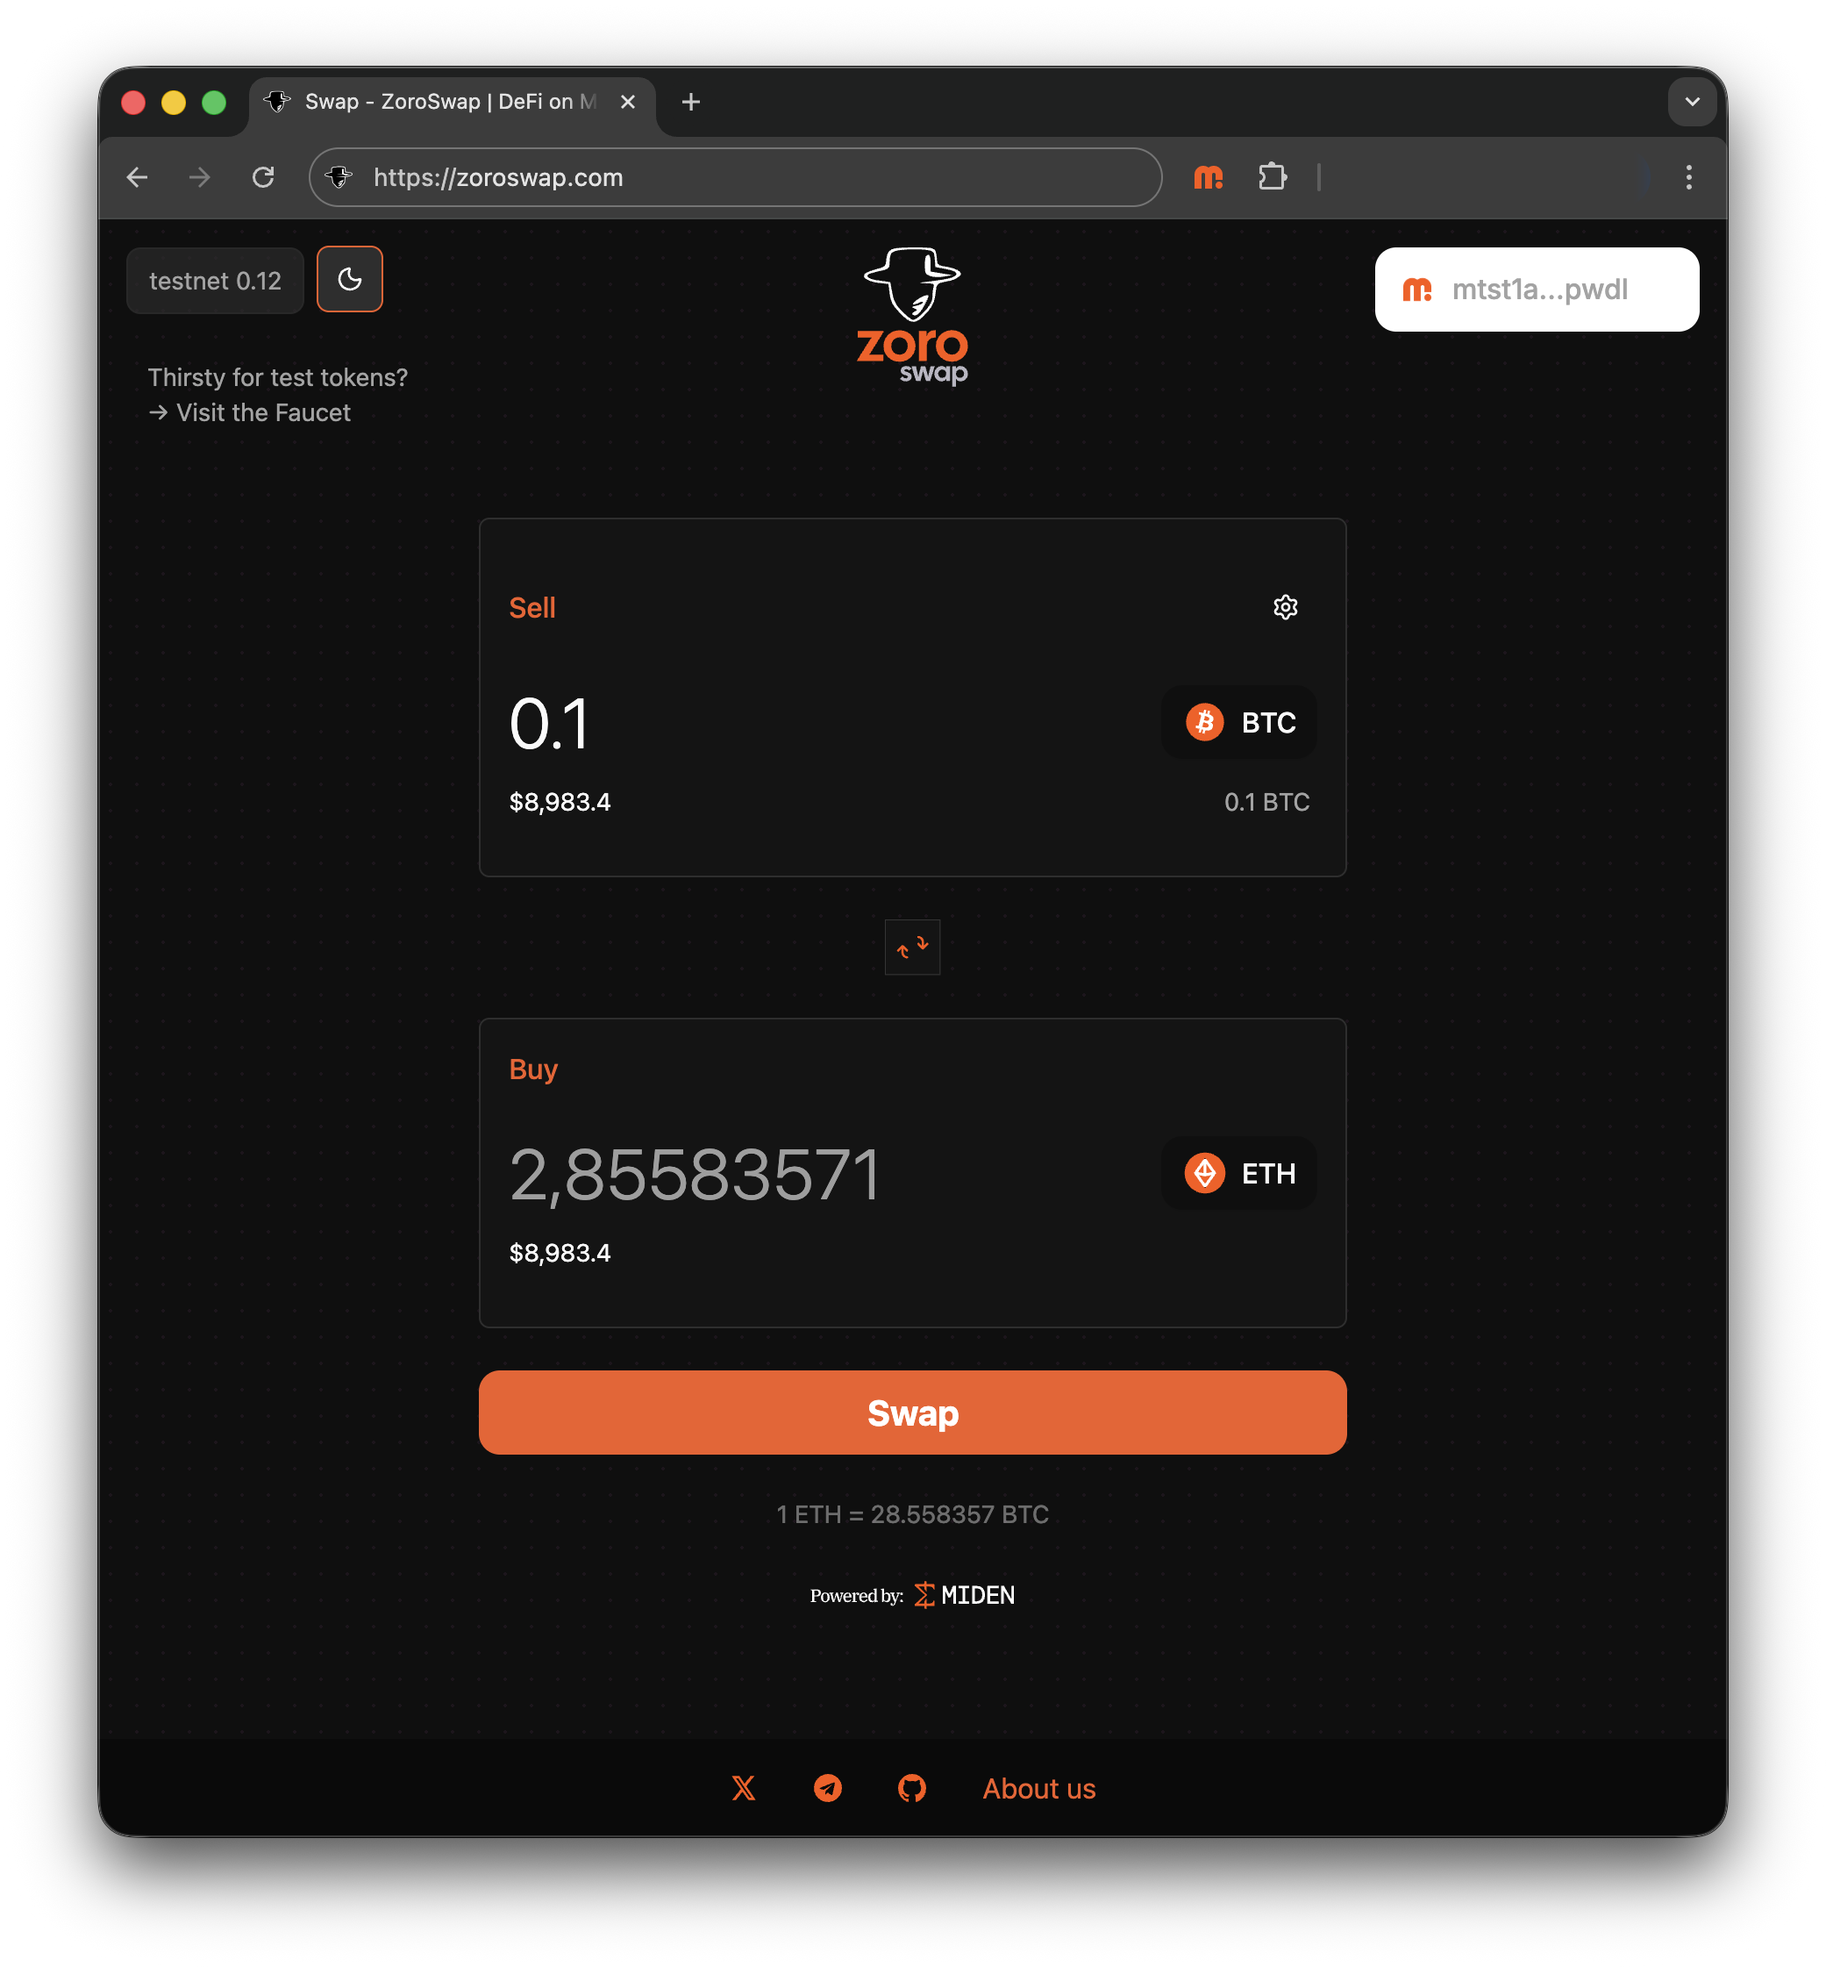
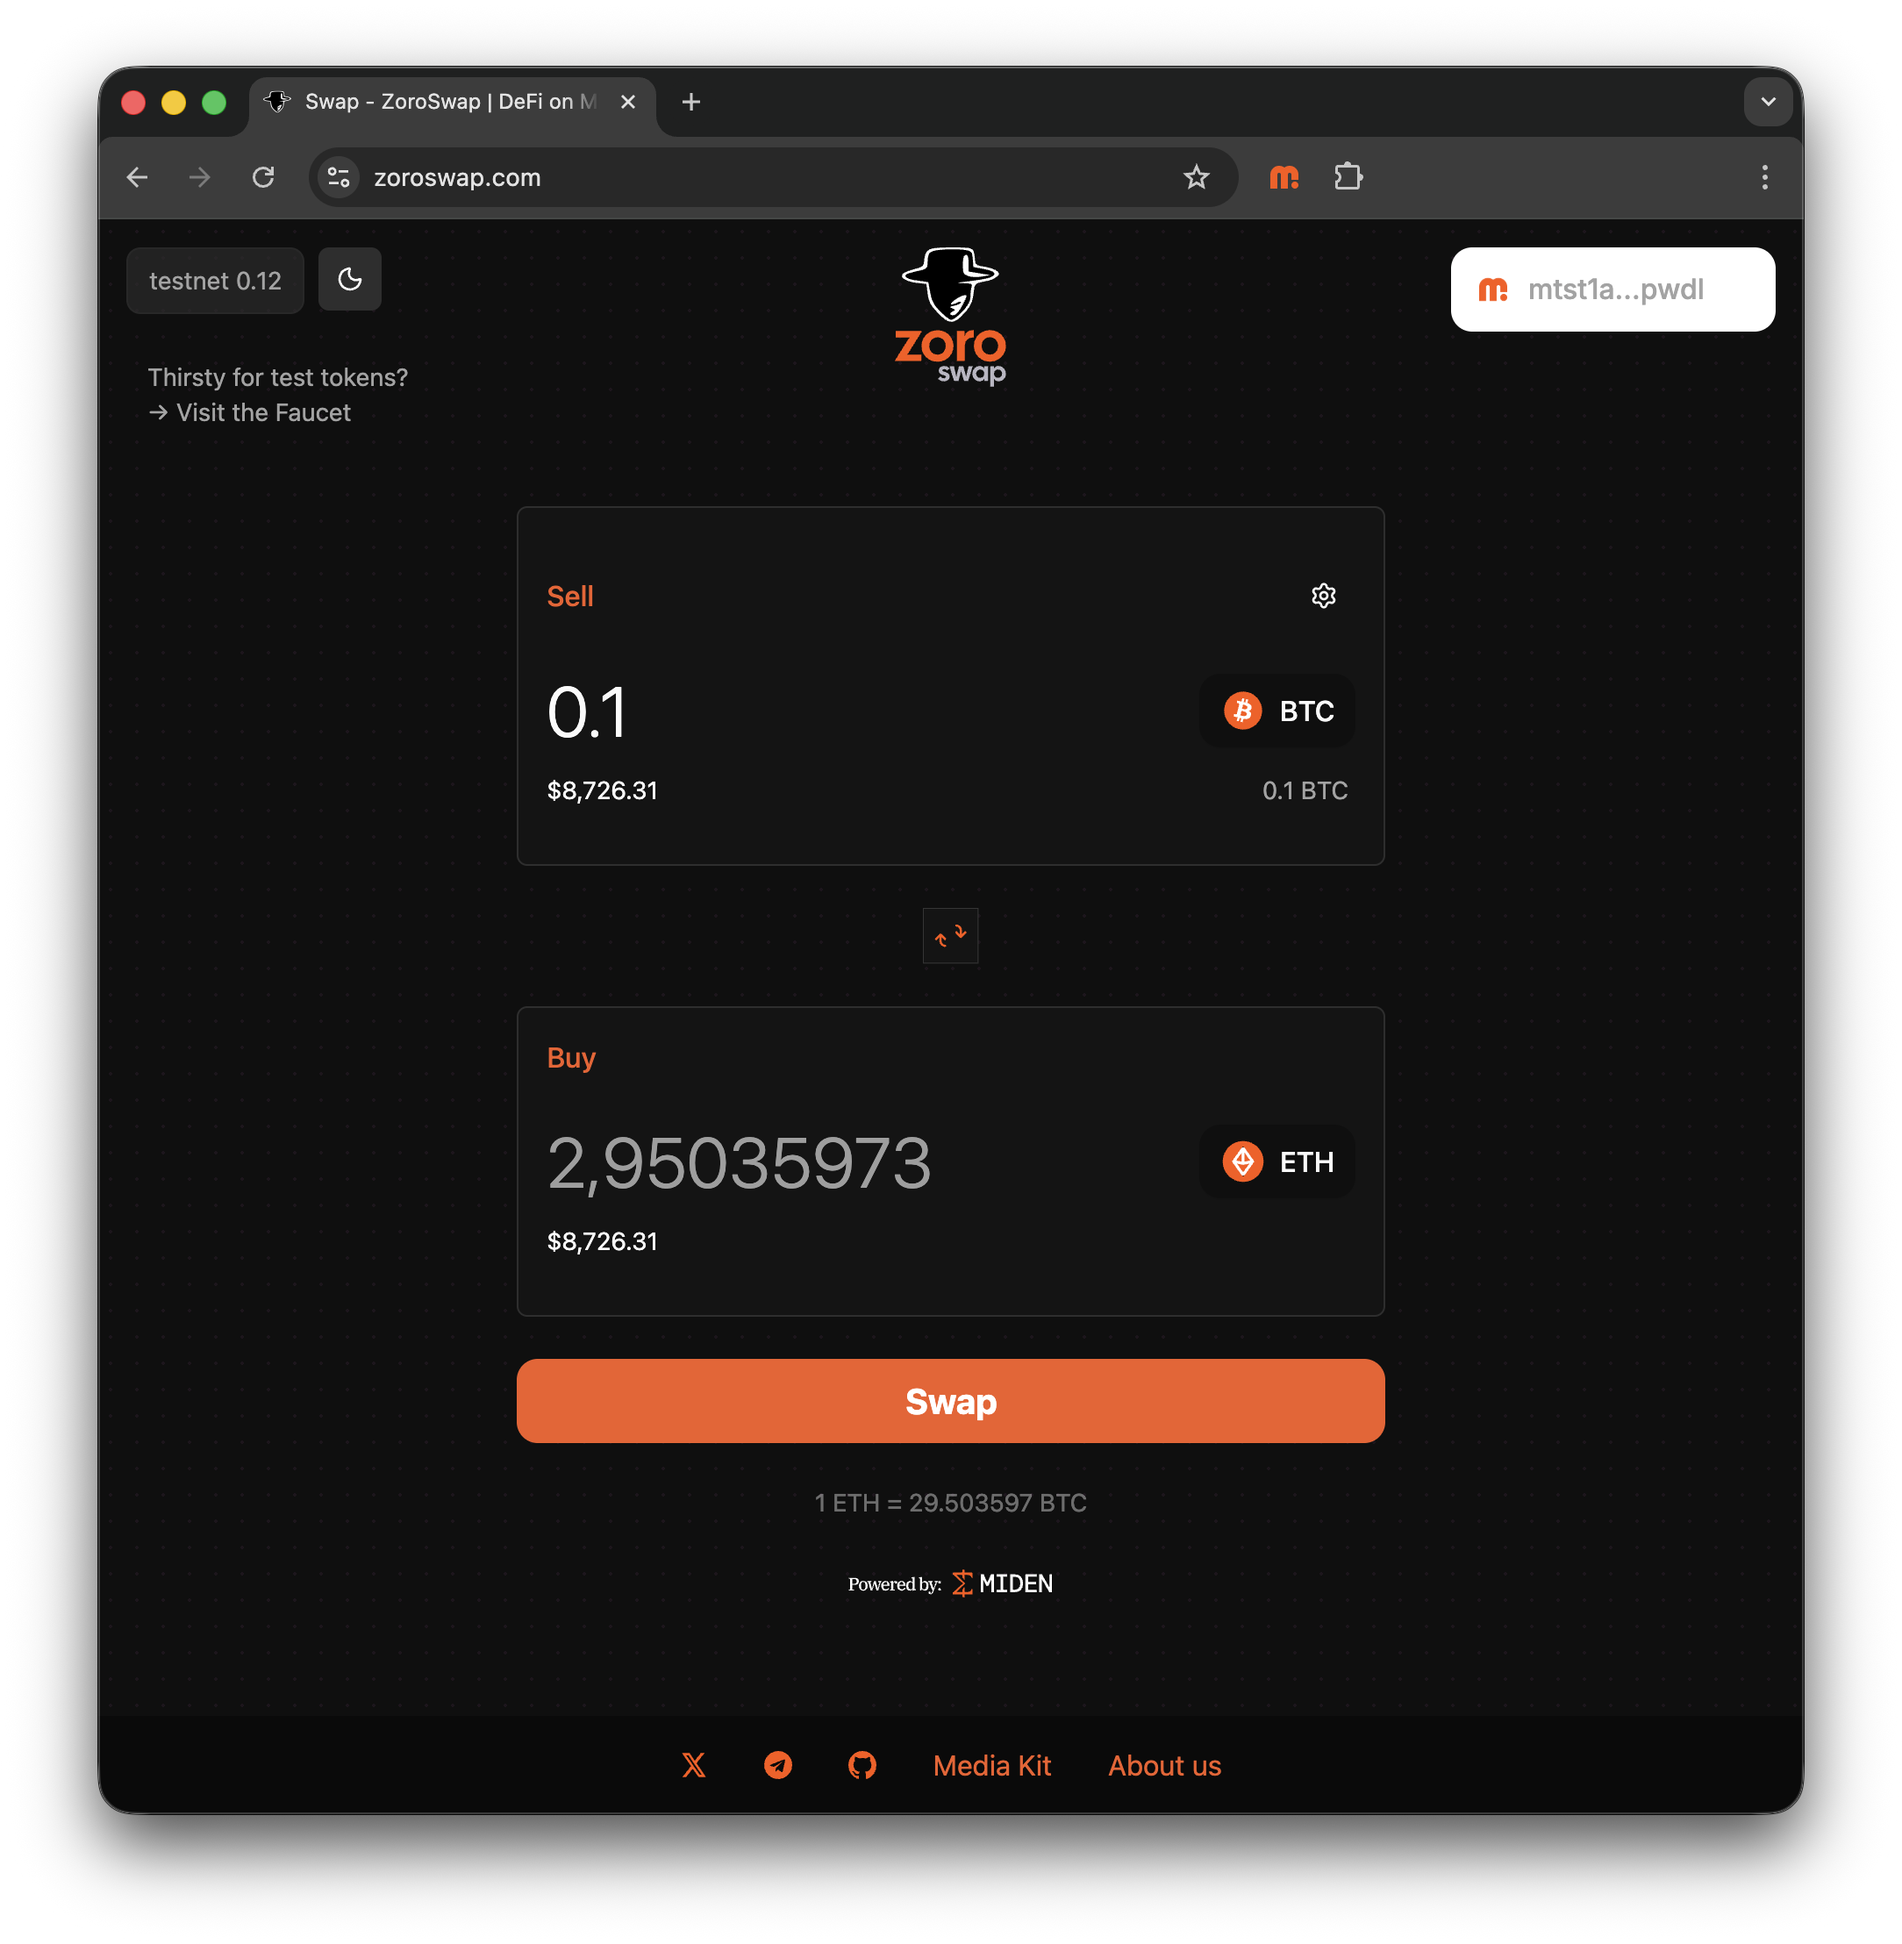
Misc SEO fixes (#41)
* Fix typo

* Use absolute URLs for OpenGraph/Preview card

* Fix page title

* Remove stray `sm:`

* Update title attributes

* Add zero-knowledge term at least once on website

* Update screenshots

diff --git a/index.html b/index.html
@@ -24,9 +24,9 @@
   <!-- Open Graph (Facebook/LinkedIn) Meta Tags -->
   <meta property="og:type" content="website" />
   <meta property="og:title" content="ZoroSwap – DeFi on Miden" />
-  <meta property=" og:description"
+  <meta property="og:description"
     content="Swap crypto privately on ZoroSwap. Trade on Miden with minimal slippage and complete privacy." />
-  <meta property="og:image" content="/social.png" />
+  <meta property="og:image" content="https://zoroswap.com/social.png" />
   <meta property="og:image:width" content="1200" />
   <meta property="og:image:height" content="630" />
   <meta property="og:image:alt" content="ZoroSwap logo" />
@@ -38,7 +38,7 @@
   <meta name="twitter:title" content="ZoroSwap – DeFi on Miden" />
   <meta name="twitter:description"
     content="Swap crypto privately on ZoroSwap. Trade on Miden with minimal slippage and complete privacy." />
-  <meta name="twitter:image" content="/social.png" />
+  <meta name="twitter:image" content="https://zoroswap.com/social.png" />
   <meta name="twitter:site" content="@zoroswap" />
   <meta name="twitter:creator" content="@zoroswap" />
 

diff --git a/src/pages/About.tsx b/src/pages/About.tsx
@@ -45,7 +45,7 @@ function About() {
               High-Performance & Private
             </h2>
             <p>
-              Zoro leverages Miden’s unique capabilities:{' '}
+              Zoro leverages Miden’s unique zero-knowledge capabilities:{' '}
               <em>privacy, local execution, low latency, and high throughput</em>. Using
               these we enable a private, high-frequency AMM (hfAMM).
             </p>

diff --git a/src/pages/MediaKit.tsx b/src/pages/MediaKit.tsx
@@ -7,7 +7,7 @@ import { Link } from 'react-router-dom';
 function MediaKit() {
   return (
     <div className='min-h-screen bg-background text-foreground flex flex-col dotted-bg'>
-      <title>About - ZoroSwap | DeFi on Miden</title>
+      <title>MediaKit - ZoroSwap | DeFi on Miden</title>
       <meta
         name='description'
         content='Media Kit for the ZoroSwap AMM.'

diff --git a/src/pages/Faucet.tsx b/src/pages/Faucet.tsx
@@ -242,7 +242,7 @@ function Faucet() {
               );
             })}
           </div>
-          <div className='pt-8 pb-2 sm:pb-0 flex sm: sm:justify-start justify-center sm:items-start'>
+          <div className='pt-8 pb-2 sm:pb-0 flex sm:justify-start justify-center sm:items-start'>
             <Link to='/'>
               <Button
                 variant='secondary'

diff --git a/src/components/Header.tsx b/src/components/Header.tsx
@@ -11,7 +11,7 @@ export function Header() {
           <img
             src='/zoro-logo-full.svg'
             alt='Zoro logo'
-            title='ZoroSwap'
+            title='ZoroSwap | DeFi on Miden'
             className='h-16 w-16 sm:h-20 sm:w-20'
           />
         </h1>

diff --git a/src/components/PoweredByMiden.tsx b/src/components/PoweredByMiden.tsx
@@ -3,6 +3,7 @@ export const poweredByMiden = (
     href='https://miden.xyz/'
     target='_blank'
     rel='noopener noreferrer nofollow'
+    title={"Powered by the Miden blockchain"}
   >
     <svg
       width='118'
